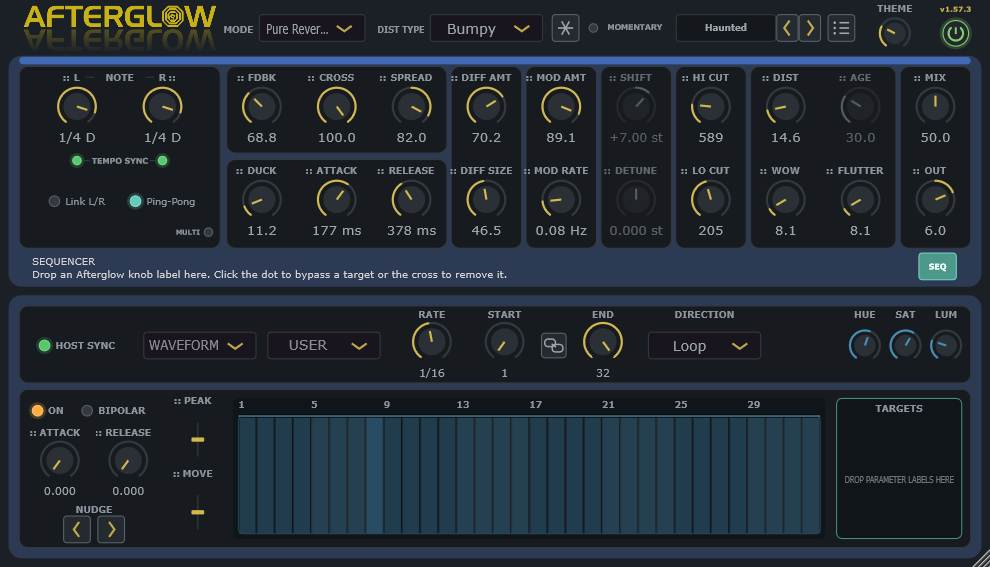
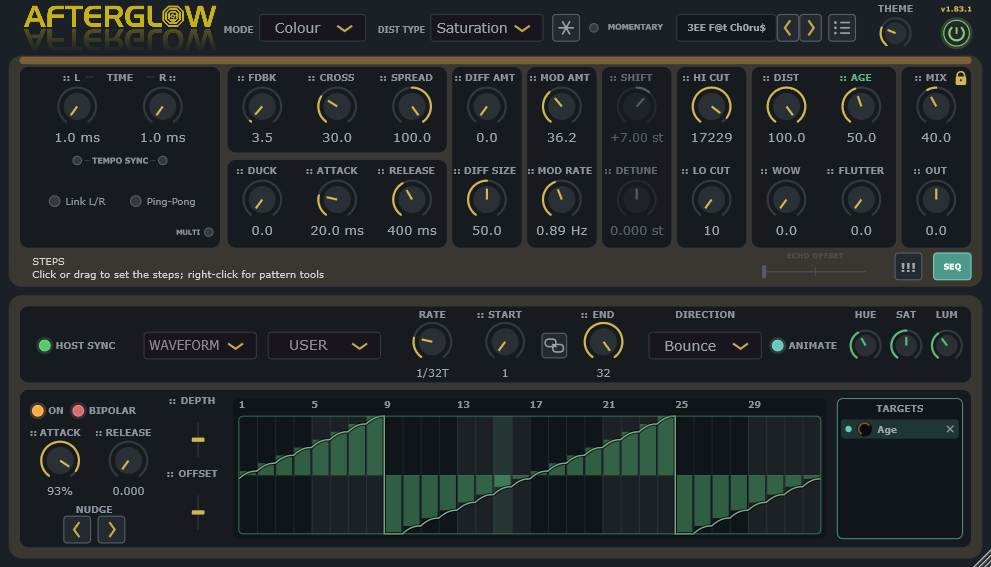
Add files via upload

diff --git a/README.md b/README.md
@@ -19,6 +19,8 @@ Credits: Many thanks to Artvera for the logo.
 
 ![Afterglow](Resources/Afterglow3.jpg)
 
+![Afterglow](Resources/Afterglow4.jpg)
+
 ## Build and installation
 
 Project root: `_Projects\Afterglow`, beside the shared `_Projects\_Tools` folder.
@@ -223,8 +225,8 @@ Pairs a clear forward audible repeat with a separate reverse-grain regeneration 
 
 ### Modulation range and targets
 
-- A target control's saved value is its modulation reference. Bipolar `DEPTH` scales the complete sequence shape: negative values shrink it, 0% leaves the drawn curve unchanged and positive values expand a smaller curve towards the available Unipolar or Bipolar limit. `OFFSET` moves the resulting shape up or down without changing it.
-- The polarity LED cycles through three clearly labelled states. `UNIPOLAR +` uses the original full-height positive step display and moves from the saved target value towards the parameter maximum. `BIPOLAR` displays both positive and negative steps around its centre line and moves equally above and below the saved value, limited by the nearer boundary. `UNIPOLAR -` uses the same full-height unipolar pattern upside down and moves from the saved value towards the parameter minimum. The fixed-position LED is lilac, rose or medium purple respectively.
+- A target control's saved value is its modulation reference. Bipolar `DEPTH` scales the complete sequence shape: negative values shrink it, 0% leaves the drawn curve unchanged and positive values expand a smaller curve towards the available Unipolar or Bipolar limit. `OFFSET` moves the resulting shape up or down without changing it. Both vertical faders draw a coloured stalk from their zero centre point to the current tab, clearly showing direction and travel while retaining the complete neutral guide rail.
+- The polarity LED cycles through three clearly labelled states. `UNIPOLAR +` uses the original full-height positive step display and moves from the saved target value towards the parameter maximum. `BIPOLAR` displays both positive and negative steps around its centre line and moves equally above and below the saved value, limited by the nearer boundary. `UNIPOLAR -` uses the same full-height unipolar pattern upside down and moves from the saved value towards the parameter minimum. The fixed-position LED is Aqua, rose or medium purple respectively.
 - Drag a knob's dotted label or small dotted handle into `TARGETS`. Up to 16 controls can be assigned. Each row has its own 0-100% Depth knob whose arc follows the currently selected Delay mode colour: 0% leaves that destination at its saved value, 50% applies half of its available movement in normalised parameter space and 100% retains the full movement set by the master sequencer DEPTH. Drag the small knob vertically, hold Shift for fine movement, use the wheel over it, or double-click it to return to 100%. Click a target's coloured dot to bypass it without removing it and click its cross to remove it. When more rows are assigned than can be shown, native clickable chevrons indicate earlier or later rows and the wheel scrolls anywhere outside a Depth knob.
 - Stereo and Multi-Tap Time handles remain assignable under Tempo Sync. The same sequencer target follows the visible control, modulating milliseconds when Sync is off or musical-note divisions when Sync is on.
 - Attack, Release, DEPTH, OFFSET, START and END can also be assigned as targets. These sequencer controls use the preceding evaluated sequence value to avoid a circular modulation dependency.

diff --git a/Changelog.md b/Changelog.md
@@ -1,5 +1,15 @@
 # Afterglow — Changelog
 
+## 1.83.2 — Depth and Offset Fader Stalks — 31 October 2026
+
+### Changed
+
+- Added coloured stalks from the zero centre point to the current DEPTH and OFFSET fader tabs. The complete neutral guide remains visible, while the new stalks show direction and distance from centre at a glance.
+
+### Preserved
+
+- Discarded the superseded v1.83.2 play-position overlay. The established current-step display, sequencer clock, modulation behaviour and audio processing remain exactly as they were in v1.83.1.
+
 ## 1.83.1 — Transparent Mix Lock — 31 October 2026
 
 ### Changed
